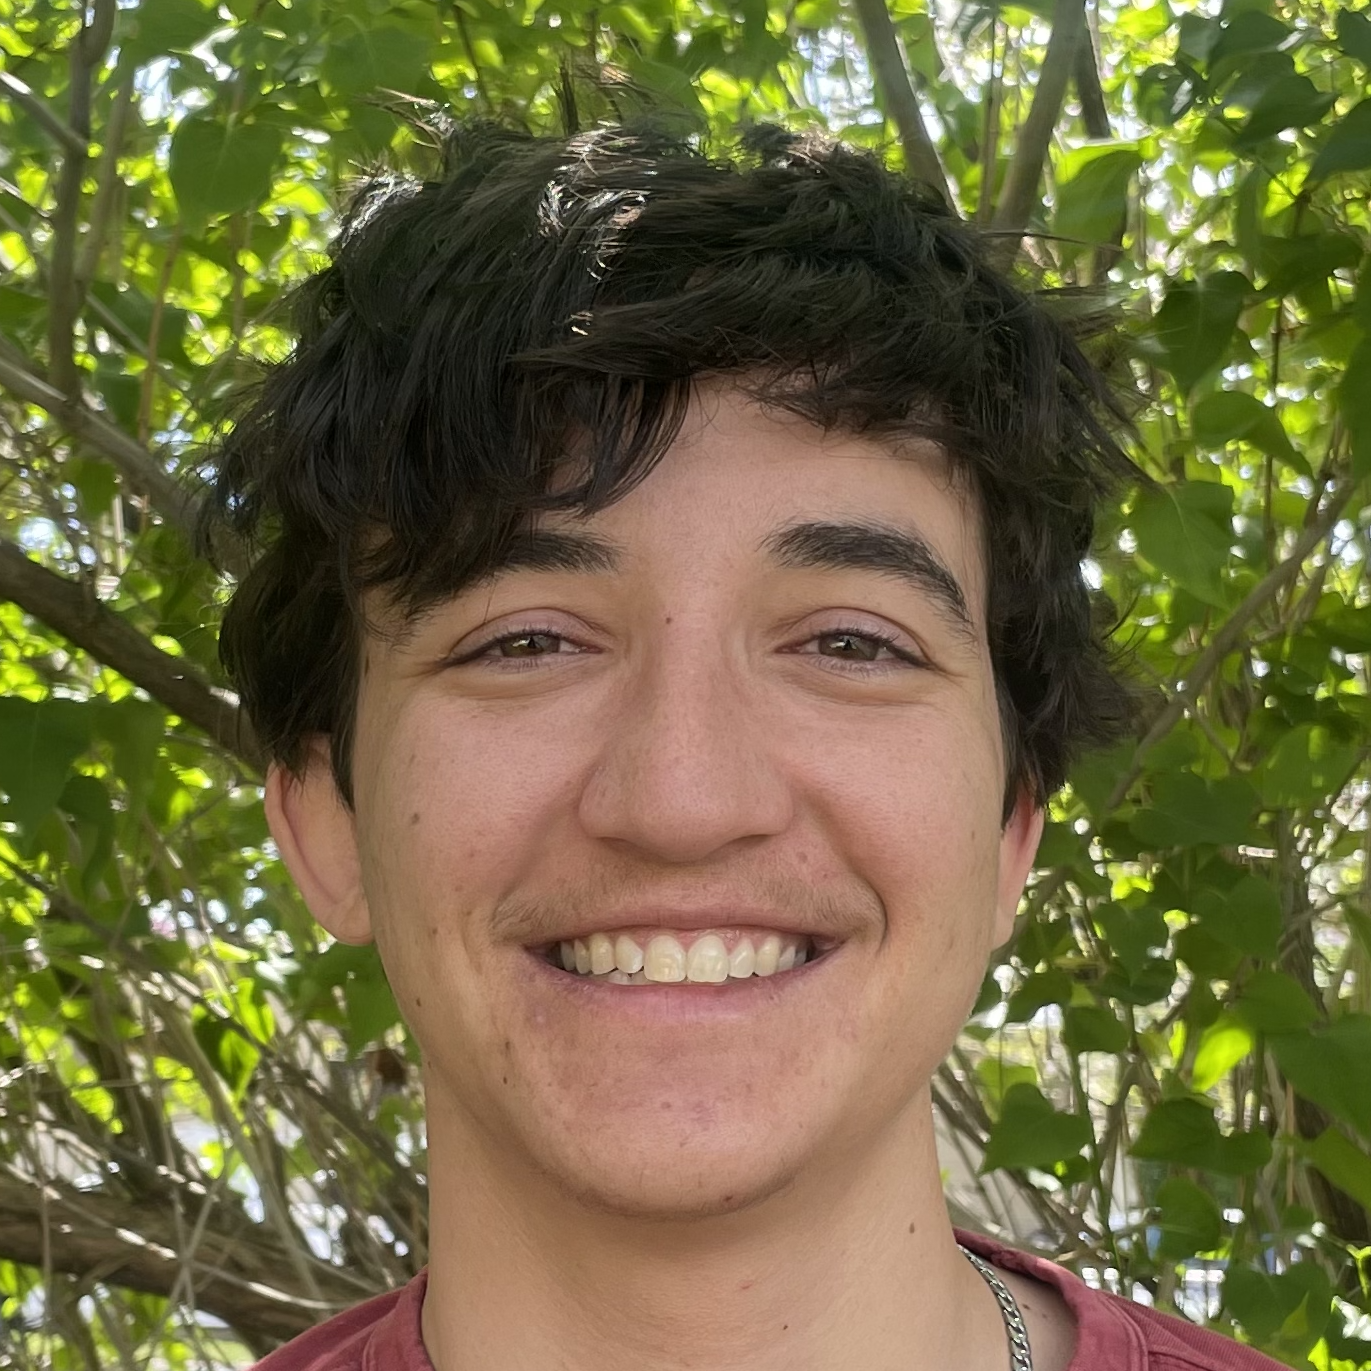
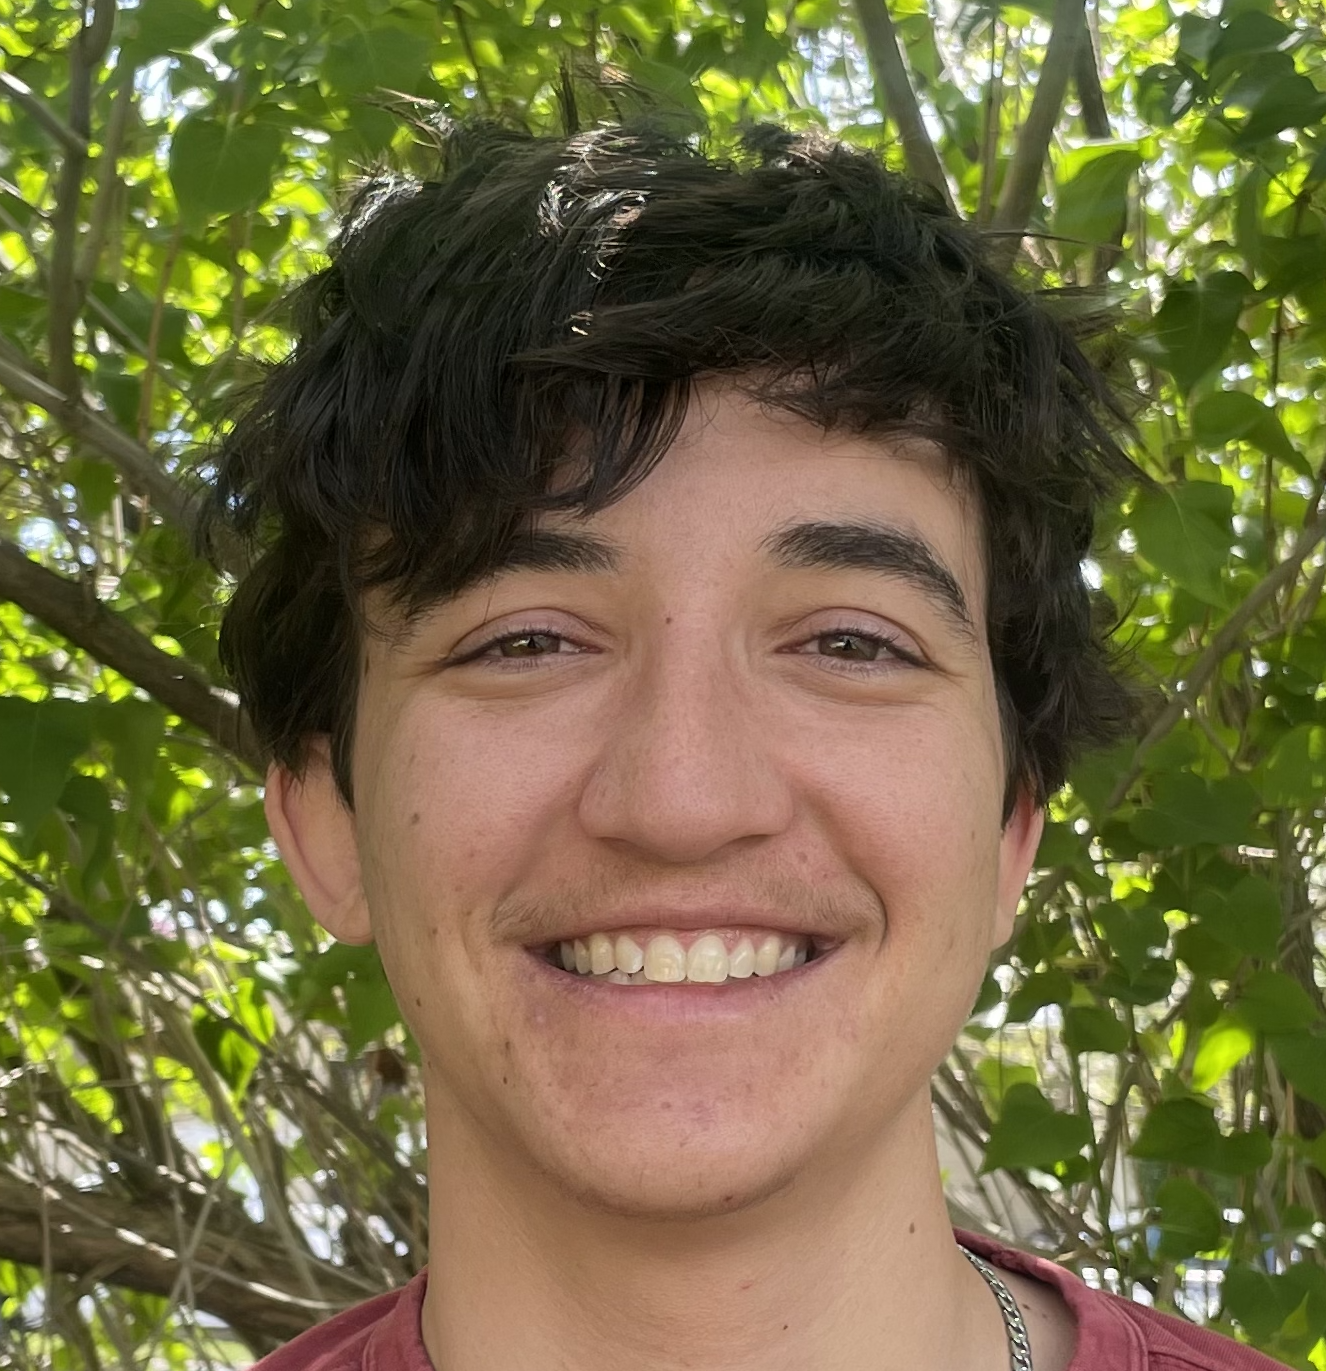
center headshot

diff --git a/src/App.tsx b/src/App.tsx
@@ -847,10 +847,11 @@ export default function DesignCentralStation() {
                   <User className="w-6 h-6 text-orange-400" />
                 </div> */}
                 {/* Headshot - circular, floating left */}
-  <div className="flex-shrink-0 w-16 h-16 rounded-full overflow-hidden border-4 border-white/20 shadow-lg hover:shadow-2xl transition-all duration-300 hover:scale-105">
+  <div className="flex-shrink-0 w-16 h-16 rounded-full overflow-hidden border-4 shadow-lg hover:shadow-2xl transition-all duration-300 hover:scale-105">
     <img 
       src="/images/Home/headshot.png"
       alt="Andy Shulman"
+      style={{border: SILVER }}
       className="w-full h-full object-cover"
       loading="lazy"
     />
